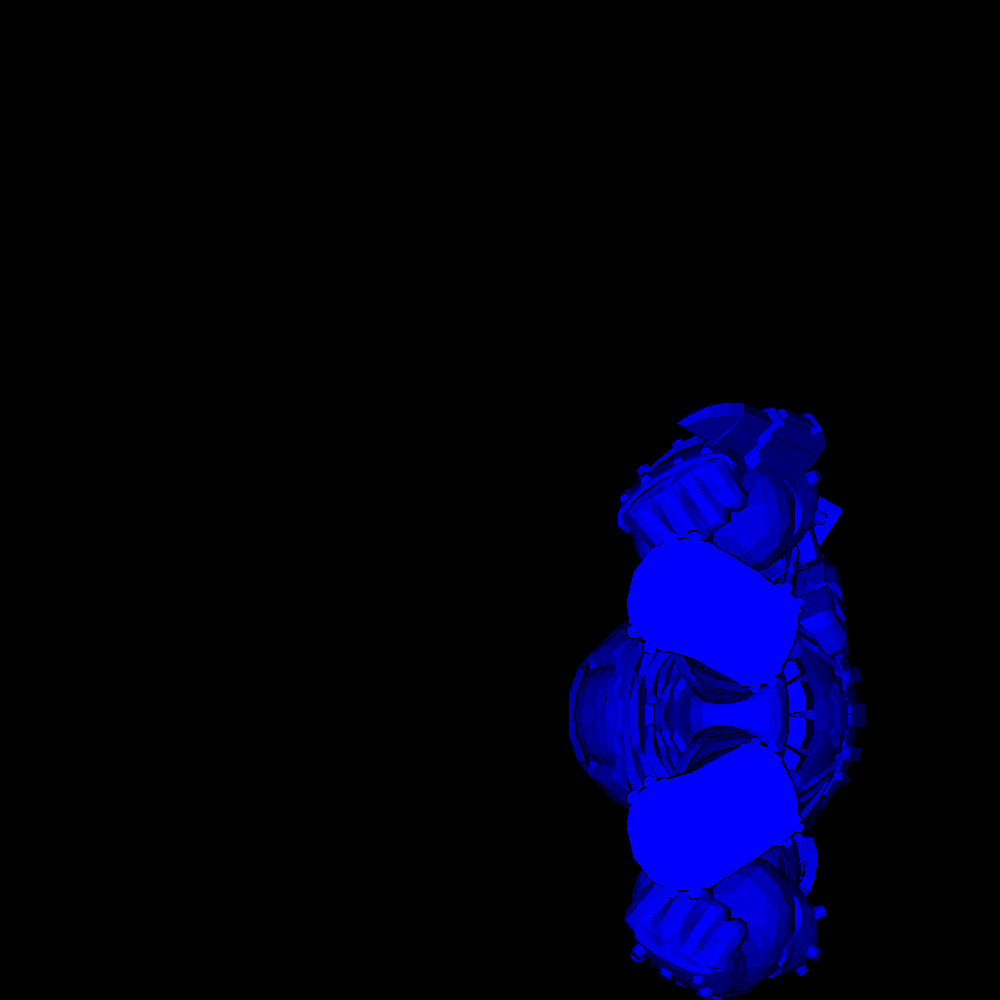
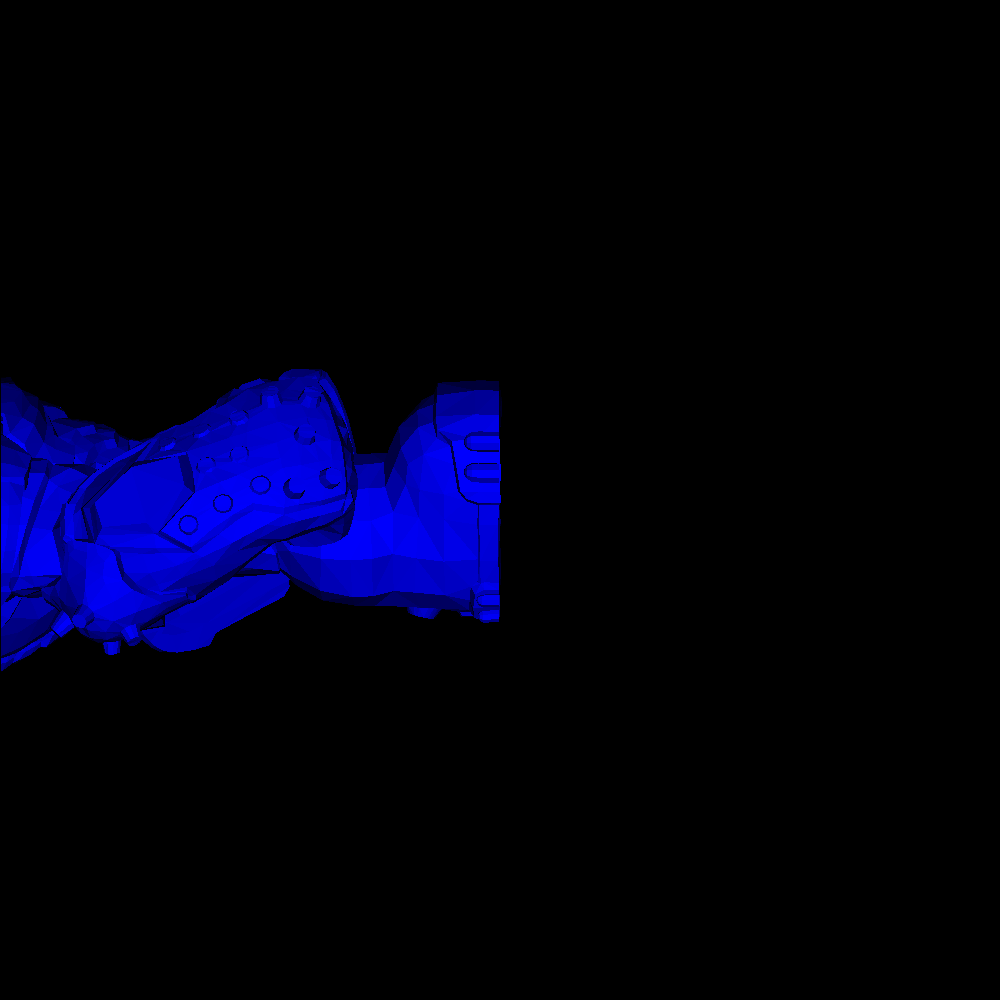
Working 3 lab

Changed region(s): [[0.558, 0.403, 0.868, 1.0], [0.0, 0.372, 0.527, 0.682]]

diff --git a/lab1.py b/lab1.py
@@ -110,41 +110,48 @@ image_matrix_wareframe = np.zeros((1000, 1000, 3), dtype = np.uint8)
 
 
 
-x_offset = 0.005 # Отступы, поменять если выдаёт ошибку
-y_offset = 0.005
-z_offset = 0
+x_offset = 0 # Отступы, поменять если выдаёт ошибку
+y_offset = -0.04
+z_offset = 1
+x_offset_screen = 500
+y_offset_screen = 500
+
 alpha = 0
-betta = 2
+betta = -120
 gamma = 0
-x_scale = 1000 # Масштаб, поменять если модель не видно
-y_scale = 1000
-
-def mapNorm(OldValue,OldMin,OldMax,NewMin,NewMax):
-    OldRange = (OldMax - OldMin)
-    NewRange = (NewMax - NewMin)
-    return (((OldValue - OldMin) * NewRange) / OldRange) + NewMin
-
-OldMax = max(map(max,vertices)) + max(x_offset, y_offset)
-OldMin = min(map(min,vertices)) + max(x_offset, y_offset)
+x_scale = 7000 # Масштаб, поменять если модель не видно
+y_scale = 7000
 
 
 
+OldMaxX = max(map(max,vertices))
+OldMinX = min(map(min,vertices))
+OldMaxY = max(map(max,vertices))
+OldMinY = min(map(min,vertices))
 
+alpha = alpha * np.pi / 180
+betta = betta * np.pi / 180
+gamma = gamma * np.pi / 180
 
-for i in range(0,len(wares)):
-    x0 = int((vertices[wares[i][0]-1][0] + x_offset) * x_scale)
-    y0 = int((vertices[wares[i][0]-1][1] + y_offset) * y_scale)
-    x1 = int((vertices[wares[i][1]-1][0] + x_offset) * x_scale)
-    y1 = int((vertices[wares[i][1]-1][1] + y_offset) * y_scale)
-    x0 = int(mapNorm(x0, OldMin * x_scale, OldMax * x_scale, 0, 999))
-    y0 = int(mapNorm(y0, OldMin * y_scale, OldMax * y_scale, 0, 999))
-    x1 = int(mapNorm(x1, OldMin * x_scale, OldMax * x_scale, 0, 999))
-    y1 = int(mapNorm(y1, OldMin * y_scale, OldMax * y_scale, 0, 999))
-
-    brezn_line(image_matrix_wareframe, x0, y0, x1, y1,255)
-
-img = Image.fromarray(np.flip(image_matrix_wareframe), mode = 'RGB')
-img.save(name + 'wareframe'+'.png')
+#def mapNorm(OldValue,OldMin,OldMax,NewMin,NewMax):
+#    OldRange = (OldMax - OldMin)
+#    NewRange = (NewMax - NewMin)
+#    return (((OldValue - OldMin) * NewRange) / OldRange) + NewMin
+#
+#for i in range(0,len(wares)):
+#    x0 = int((vertices[wares[i][0]-1][0] + x_offset) * x_scale)
+#    y0 = int((vertices[wares[i][0]-1][1] + y_offset) * y_scale)
+#    x1 = int((vertices[wares[i][1]-1][0] + x_offset) * x_scale)
+#    y1 = int((vertices[wares[i][1]-1][1] + y_offset) * y_scale)
+#    x0 = int(mapNorm(x0, OldMin * x_scale, OldMax * x_scale, 0, 999))
+#    y0 = int(mapNorm(y0, OldMin * y_scale, OldMax * y_scale, 0, 999))
+#    x1 = int(mapNorm(x1, OldMin * x_scale, OldMax * x_scale, 0, 999))
+#    y1 = int(mapNorm(y1, OldMin * y_scale, OldMax * y_scale, 0, 999))
+#
+#    brezn_line(image_matrix_wareframe, x0, y0, x1, y1,255)
+#
+#img = Image.fromarray(np.flip(image_matrix_wareframe), mode = 'RGB')
+#img.save(name + 'wareframe'+'.png')
 
 
 def BarCoord(x, y, x0, y0, x1, y1, x2, y2):
@@ -163,7 +170,7 @@ z_buffer[0:1000, 0:1000] = np.inf
 
 
 
-
+#Матрица поворота
 m1 = np.array([[1, 0, 0], [0, cos(alpha), sin(alpha)], [0, -sin(alpha), cos(alpha)]], dtype = np.float32)
 m2 = np.array([[cos(betta), 0, sin(betta)], [0, 1, 0], [-sin(betta), 0, cos(betta)]], dtype = np.float32)
 m3 = np.array([[cos(gamma), sin(gamma), 0], [-sin(gamma), cos(gamma), 0], [0, 0, 1]], dtype = np.float32)
@@ -173,10 +180,11 @@ R = np.matmul(np.matmul(m1, m2), m3)
 
 
 
+print(OldMinX, OldMaxX, OldMinY, OldMaxY)
 
 for i in range(0,int(len(wares)),3):
     progress = len(wares)
-    if i % 100 == 0:
+    if i % 1000 == 0:
         print(i, "/", progress)
 
 
@@ -221,20 +229,14 @@ for i in range(0,int(len(wares)),3):
     if angle_between < 0:
 
 
-        x0 = x_scale * x0 / z0 + x_offset
-        y0 = y_scale * y0 / z0 + y_offset
-        x1 = x_scale * x1 / z1 + x_offset
-        y1 = y_scale * y1 / z1 + y_offset
-        x2 = x_scale * x2 / z2 + x_offset
-        y2 = y_scale * y2 / z2 + y_offset
+        x0 = x_scale * x0/z0 + x_offset_screen
+        y0 = y_scale * y0/z0 + y_offset_screen
+        x1 = x_scale * x1/z1 + x_offset_screen
+        y1 = y_scale * y1/z1 + y_offset_screen
+        x2 = x_scale * x2/z2 + x_offset_screen
+        y2 = y_scale * y2/z2 + y_offset_screen
 
 
-        #x0 = mapNorm(x0, OldMin, OldMax, 0, 999)
-        #y0 = mapNorm(y0, OldMin, OldMax, 0, 999)
-        #x1 = mapNorm(x1, OldMin, OldMax, 0, 999)
-        #y1 = mapNorm(y1, OldMin, OldMax, 0, 999)
-        #x2 = mapNorm(x2, OldMin, OldMax, 0, 999)
-        #y2 = mapNorm(y2, OldMin, OldMax, 0, 999)
 
         xmin = floor(min(x0, x1, x2))
         if (xmin < 0): xmin = 0
